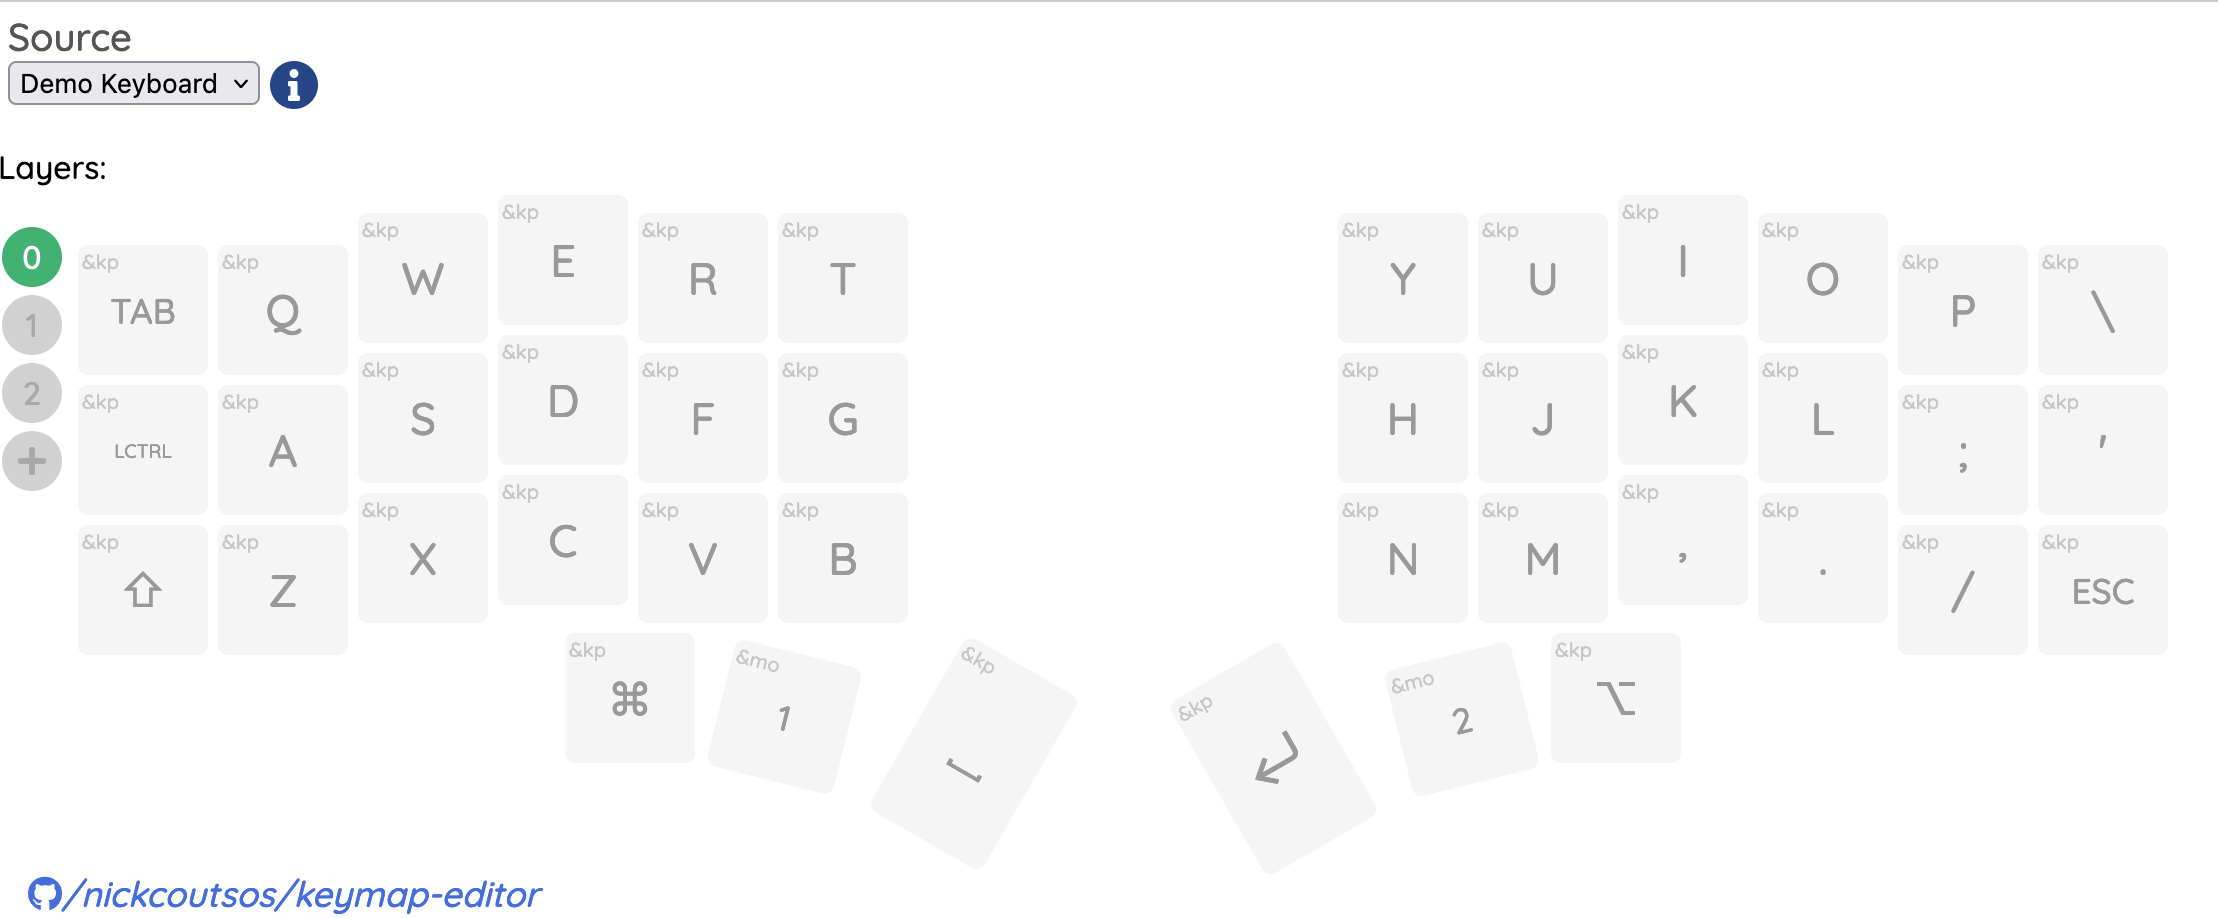
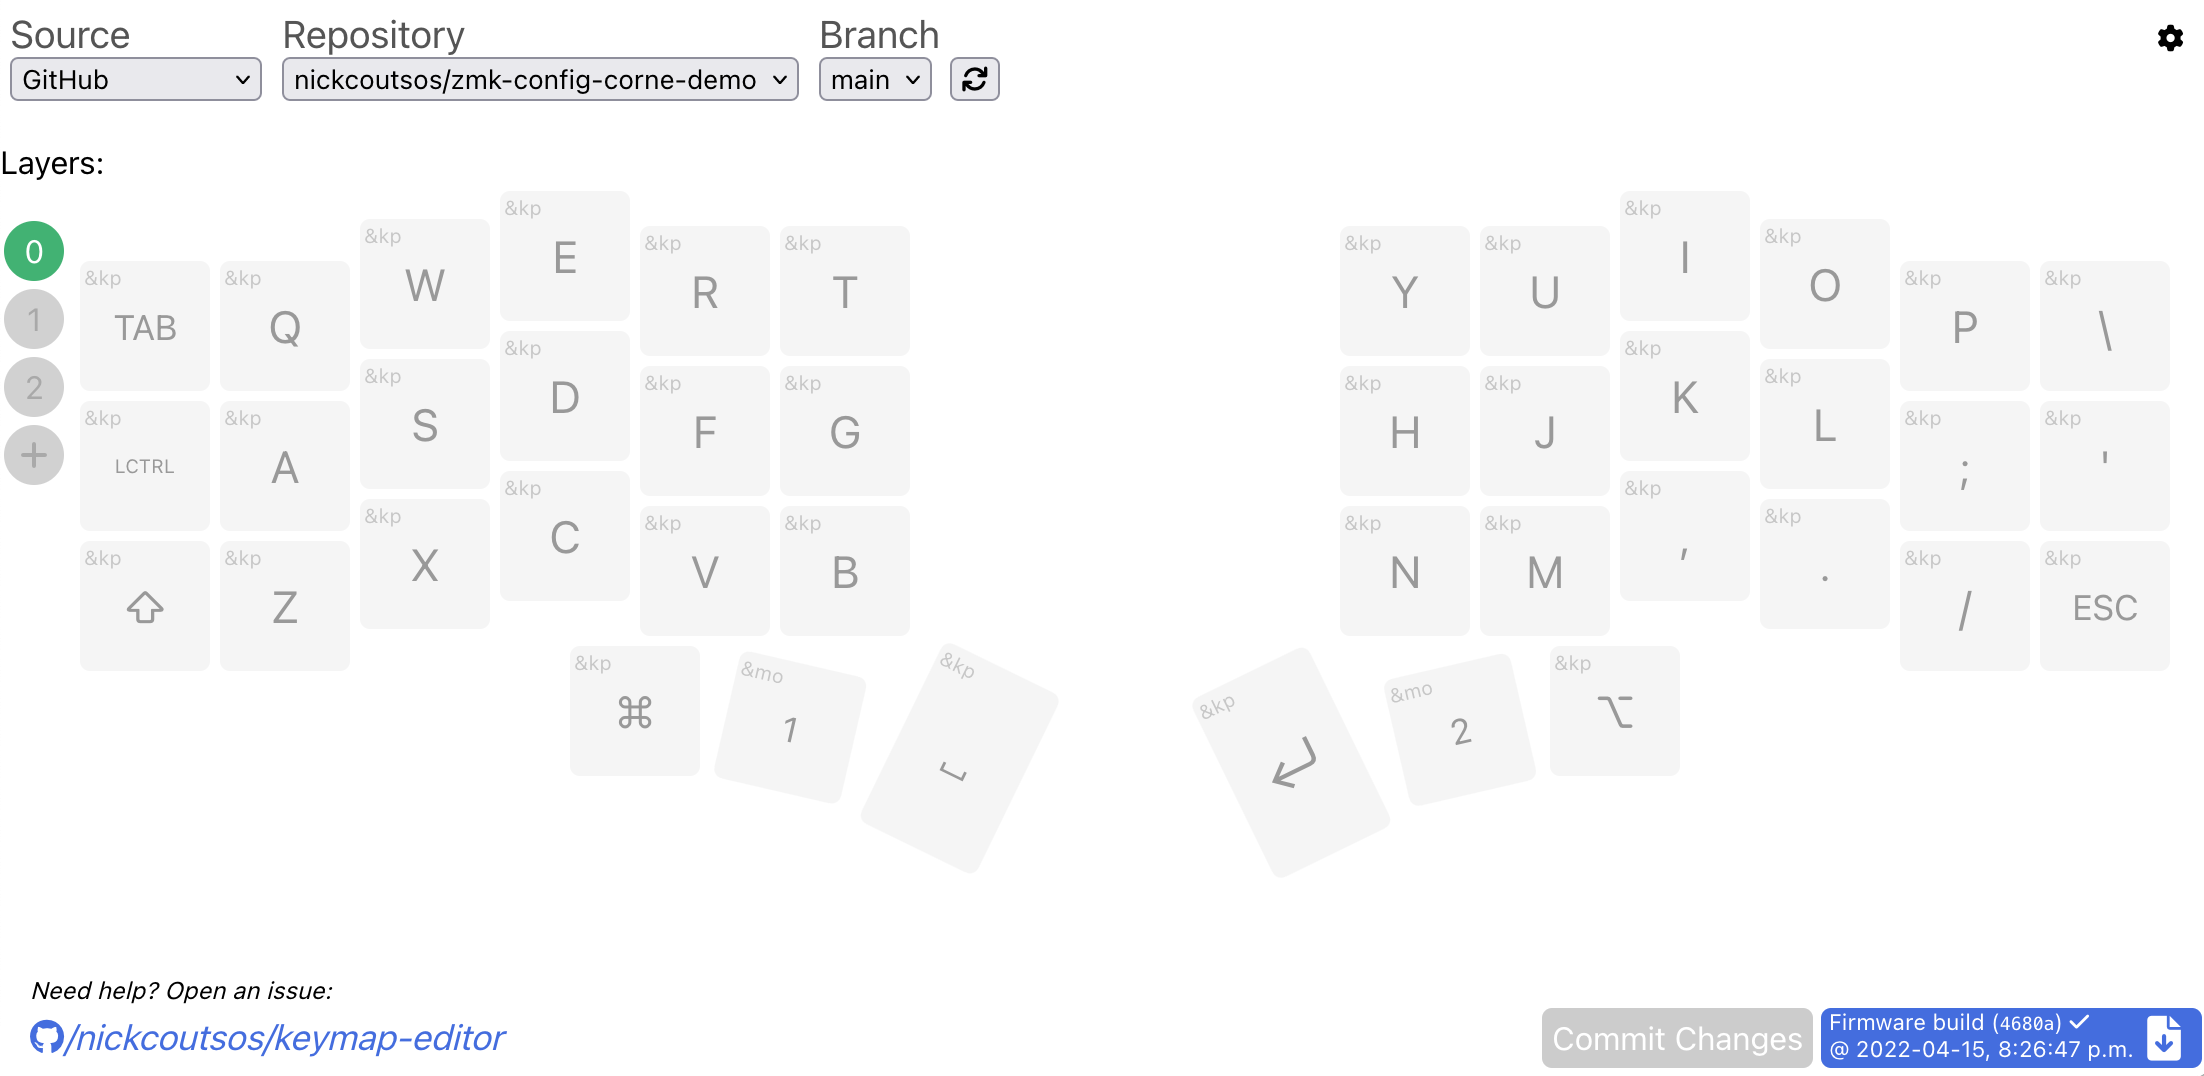
Update readme features, collaboration option, and screenshot

diff --git a/README.md b/README.md
@@ -20,6 +20,14 @@ kinds of functionality (mainly those involving custom/configured behaviours).
     readable format that matches the physical layout of the keyboard. Note that
     these values are now the row and column of the wiring matrix which may be
     different to use GPIO pins more efficiently.
+* Build status/link: for those relying on GitHub actions to build their keyboard
+  firmware, the editor will now display the most recent build result and provide
+  a link to the results in GitHub. It also gets `workflow_run` events in real-
+  time so you can get live progress from within the editor.
+    * It's worth noting that at the time of this writing I had just finished the
+      work on this feature a few hours ago. It gets the latest workflow run for
+      the selected branch assuming that you only have one workflow defined for
+      your zmk-config repo.
 
 ### In Progress
 
@@ -41,11 +49,16 @@ gear icon in the top right and check the box to enable devicetree parsing.
 #### What else?
 
 If you have thoughts on what needs to be fixed to support _your_ keyboard or to
-make this a useful tool for users of either firmware, let me know.
+make this a useful tool for users, let me know.
 
-I'm not committing to taking this on myself, and I'll probably never do much
-testing on any other keyboards, but I'm happy to have discussions on where this
-(or another tool) can go.
+I'm not committing to taking this on myself, and as a hobbyist I don't have any
+commercially available keyboards to test out and provide specific support, but
+I'm happy to have discussions on where this (or another tool) can go.
+
+Do you have an idea you'd like to see implemented that might not work for this
+specific use case? _Talk to me_. I went to a lot of trouble building this and I
+can share a lot of that experience. Even if we don't have the same needs a lot
+of things can be supported modularly.
 
 
 ## Setup
@@ -62,10 +75,9 @@ Read more about [local setup](running-locally.md)
 
 ### Web
 
-This editor has a (very) rudimentary GitHub integration. You can load the web
-app and grant it access to your zmk-config repo. Changes to your keymap are
-committed right back to the repository so you only ever need to leave the app to
-download your firmware.
+This editor has a GitHub integration. You can load the web app and grant it
+access to your zmk-config repo. Changes to your keymap are committed right back
+to the repository so you only ever need to leave the app to download firmware.
 
 Try it now:
 
